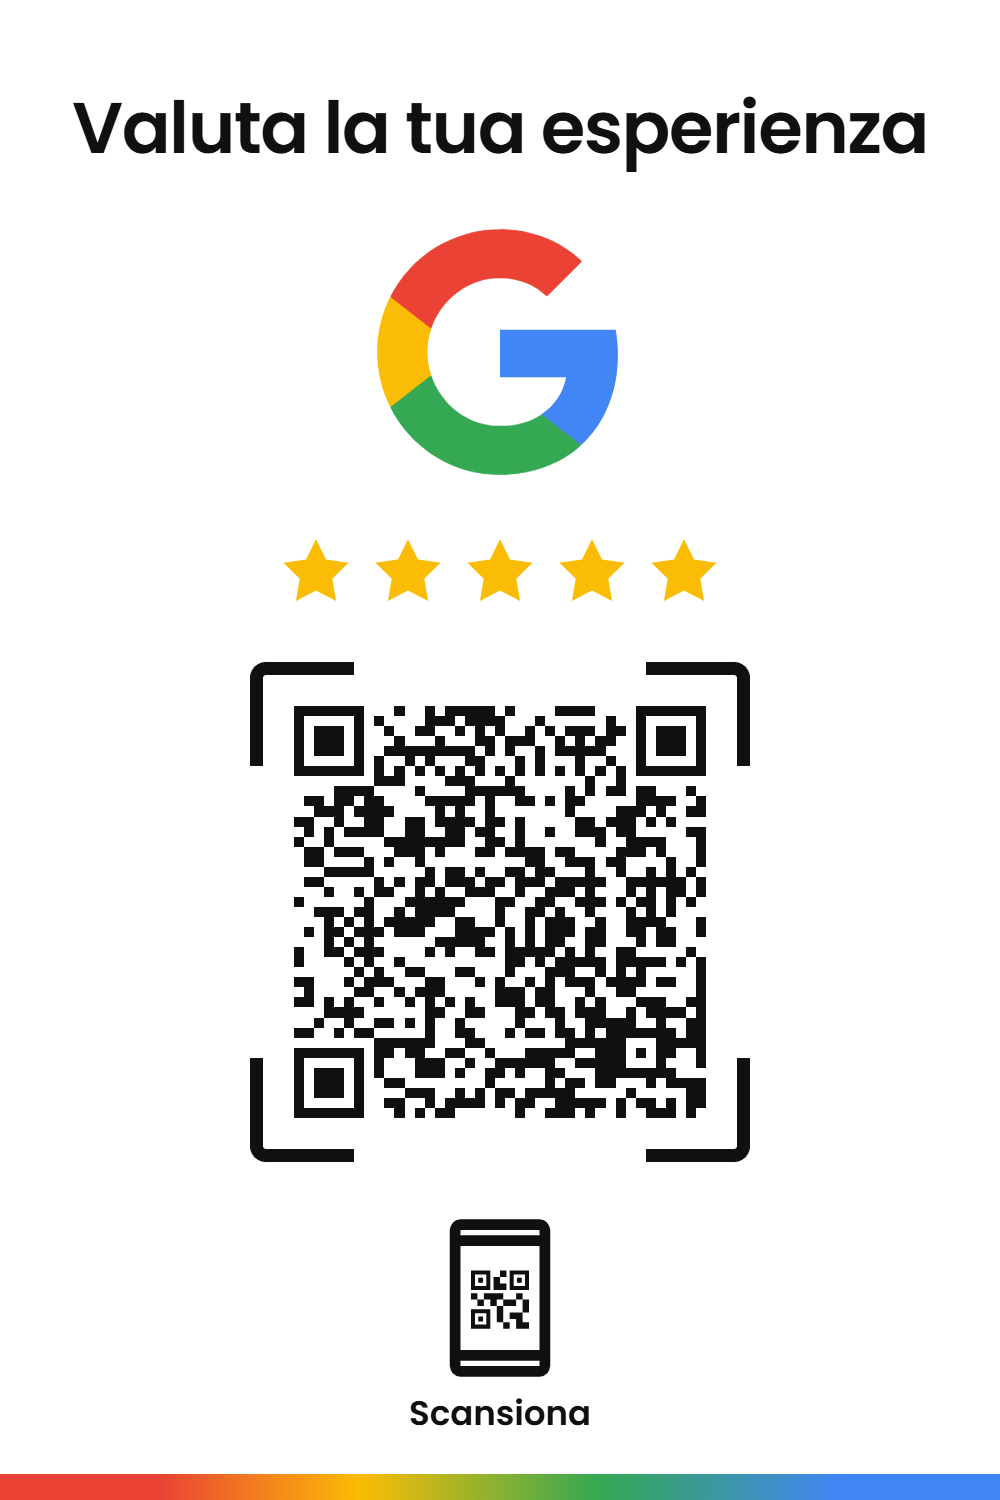
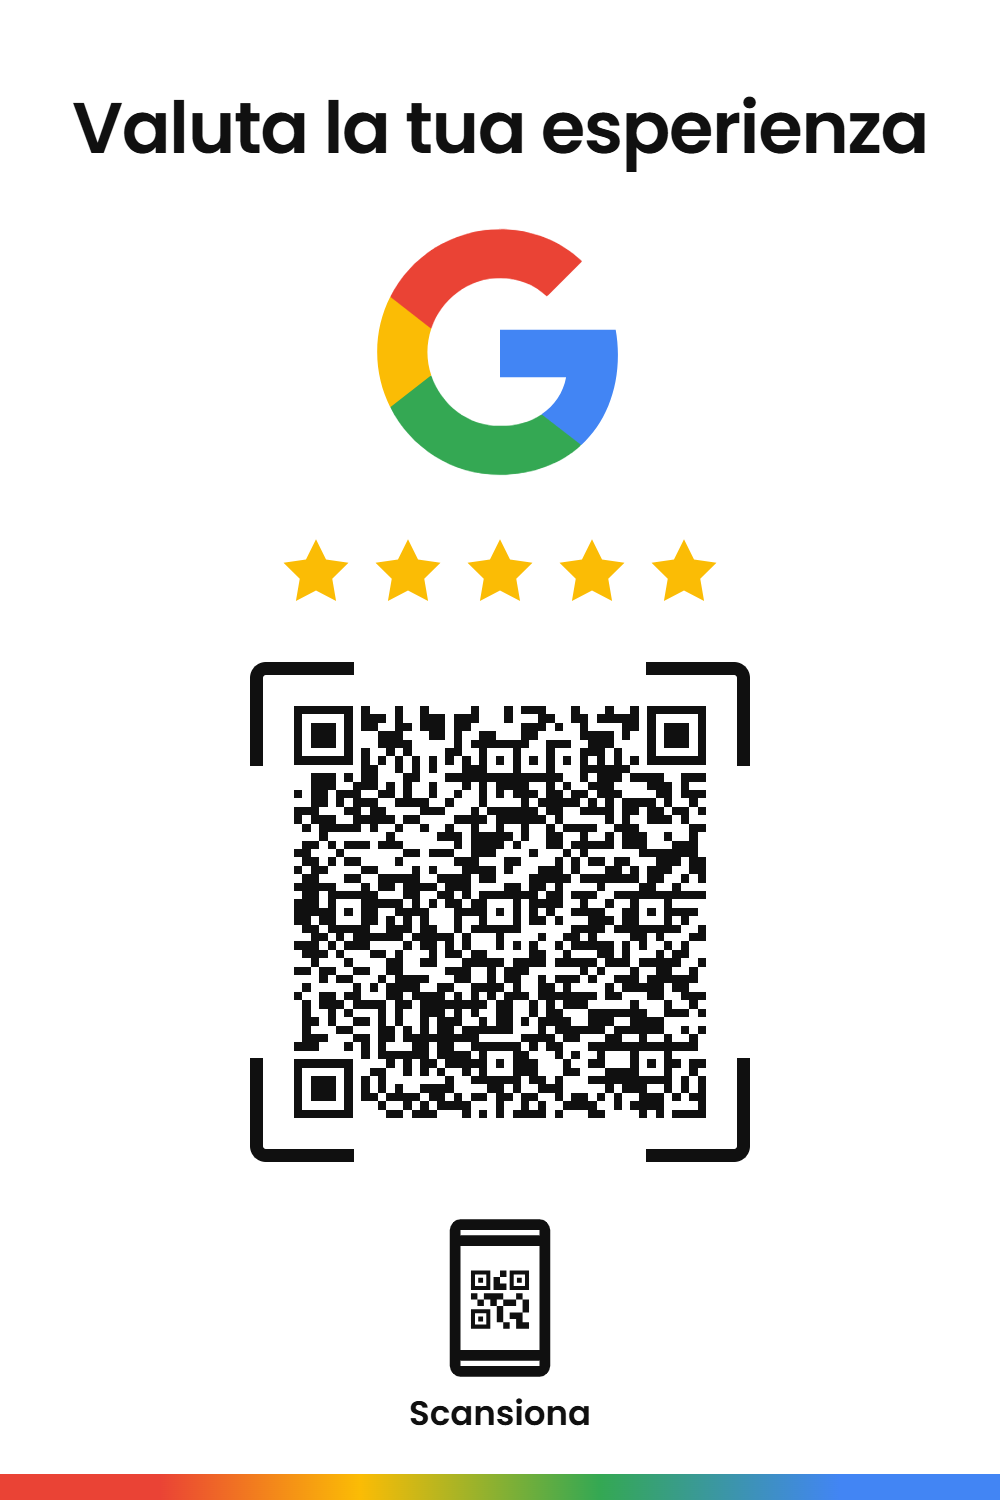
Kit: QR delle card verso /kit-recensioni-google + slot foto (pannelli, hero, personalizzazione)
Card bianca/nera rigenerate con QR che punta alla pagina del kit (verificato
con jsqr). Pannelli Basic/Standard/Premium accettano img/tier-<livello>.jpg a
tutta area con sfumatura scura in basso; hero accetta img/hero.jpg; schede
personalizzazione img/X1-X3.jpg. Senza file restano i render CSS.

Claude-Session: https://claude.ai/code/session_01H2BgPP74wNg57AgSzgWtJo

Changed region(s): [[0.279, 0.46, 0.713, 0.7667]]

diff --git a/kit-recensioni-google/index.html b/kit-recensioni-google/index.html
@@ -66,6 +66,7 @@
             </div>
             <div class="hero-visual" data-animate="fade-up" data-delay="200">
                 <div class="hero-stage">
+                    <img class="hero-photo" src="img/hero.jpg" alt="Card recensioni Google sul bancone" onload="this.parentElement.classList.add('has-photo')" onerror="this.remove()">
                     <div class="render render--stand-v render--lg">
                         <img src="img/card-bianca.png" alt="Card Valuta la tua esperienza con QR code Google" width="1000" height="1500">
                     </div>
@@ -125,6 +126,8 @@
 
         <div class="tiers" id="tiers">
             <button class="tier" data-tier="basic" type="button">
+                <img class="tier-photo" src="img/tier-basic.jpg" alt="" onload="this.parentElement.classList.add('has-photo')" onerror="this.remove()">
+                <div class="tier-shade" aria-hidden="true"></div>
                 <div class="tier-visual">
                     <div class="render render--card render--sm">
                         <img src="img/card-bianca.png" alt="" width="1000" height="1500">
@@ -140,6 +143,8 @@
             </button>
 
             <button class="tier" data-tier="standard" type="button">
+                <img class="tier-photo" src="img/tier-standard.jpg" alt="" onload="this.parentElement.classList.add('has-photo')" onerror="this.remove()">
+                <div class="tier-shade" aria-hidden="true"></div>
                 <div class="tier-visual">
                     <div class="render render--stand-v render--sm">
                         <img src="img/card-bianca.png" alt="" width="1000" height="1500">
@@ -155,6 +160,8 @@
             </button>
 
             <button class="tier" data-tier="premium" type="button">
+                <img class="tier-photo" src="img/tier-premium.jpg" alt="" onload="this.parentElement.classList.add('has-photo')" onerror="this.remove()">
+                <div class="tier-shade" aria-hidden="true"></div>
                 <div class="tier-visual">
                     <div class="render render--plexi-black render--sm">
                         <img src="img/card-nera.png" alt="" width="1000" height="1500">

diff --git a/kit-recensioni-google/kit.css b/kit-recensioni-google/kit.css
@@ -203,6 +203,26 @@ button { font-family: inherit; }
 .tier-arrow { position: absolute; bottom: 22px; left: 50%; width: 12px; height: 12px; border-right: 2px solid var(--text-tertiary); border-bottom: 2px solid var(--text-tertiary); transform: translateX(-50%) rotate(45deg); transition: var(--transition); }
 .tier.active .tier-arrow { transform: translateX(-50%) rotate(225deg); border-color: var(--accent); }
 
+/* Foto a tutta area nei pannelli (img/tier-*.jpg) */
+.tier-photo { position: absolute; inset: 0; width: 100%; height: 100%; object-fit: cover; object-position: center top; z-index: 0; transition: transform 0.8s cubic-bezier(0.4,0,0.2,1); }
+.tier-shade { position: absolute; inset: 0; z-index: 1; background: linear-gradient(180deg, rgba(10,10,11,0) 0%, rgba(10,10,11,0.2) 38%, rgba(10,10,11,0.9) 64%, rgba(10,10,11,0.98) 100%); display: none; }
+.tier.has-photo { min-height: 640px; justify-content: flex-end; padding-bottom: 72px; }
+.tier.has-photo .tier-visual { display: none; }
+.tier.has-photo .tier-shade { display: block; }
+.tier.has-photo:hover .tier-photo, .tier.has-photo.active .tier-photo { transform: scale(1.05); }
+.tier.has-photo .tier-body { z-index: 2; }
+.tier.has-photo::before { z-index: 1; }
+@media (max-width: 900px) { .tier.has-photo { min-height: 520px; } }
+
+/* Foto hero (img/hero.jpg) */
+.hero-photo { display: none; width: min(100%, 560px); border-radius: var(--radius-xl); border: 1px solid var(--border-hover); box-shadow: 0 30px 80px rgba(0,0,0,0.6); }
+.hero-stage.has-photo .hero-photo { display: block; }
+.hero-stage.has-photo .render { display: none; }
+
+/* Foto nelle schede personalizzazione (img/X1.jpg ...) */
+.extra-photo { display: none; width: calc(100% + 48px); margin: -28px -24px 6px; aspect-ratio: 16 / 10; object-fit: cover; border-radius: var(--radius-lg) var(--radius-lg) 0 0; }
+.extra.has-photo .extra-photo { display: block; }
+
 /* Pannello opzioni */
 .tier-panel { background: var(--bg-elevated); border-bottom: 1px solid var(--border); padding: 64px 0 80px; animation: panelIn 0.5s cubic-bezier(0.4,0,0.2,1); }
 @keyframes panelIn { from { opacity: 0; transform: translateY(-12px); } to { opacity: 1; transform: none; } }

diff --git a/kit-recensioni-google/kit.js b/kit-recensioni-google/kit.js
@@ -3,6 +3,8 @@
    Per sostituire un render CSS con una foto:
    metti il file in img/<codice>.jpg (es. img/S1.jpg).
    Per le foto ambientate: img/ambientata-<n>.jpg
+   Pannelli livello: img/tier-basic.jpg, tier-standard.jpg, tier-premium.jpg
+   Hero: img/hero.jpg  |  Personalizzazione: img/X1.jpg, X2.jpg, X3.jpg
    ============================================ */
 
 const CONTACT_EMAIL = 'lucacarlorecchio25@gmail.com';
@@ -154,6 +156,7 @@ supportSel.addEventListener('change', () => { state.support = supportSel.value; 
 const extrasEl = $('#extras');
 extrasEl.innerHTML = EXTRAS.map((x, i) => `
     <button class="extra ${i === 0 ? 'selected' : ''}" type="button" data-code="${x.code}">
+        <img class="extra-photo" src="img/${x.code}.jpg" alt="" onload="this.parentElement.classList.add('has-photo')" onerror="this.remove()">
         <div class="extra-head"><span class="extra-code">${x.code}</span><span class="extra-check"></span></div>
         <span class="extra-name">Personalizzazione ${x.name}</span>
         <span class="extra-price ${x.price === 0 ? 'free' : ''}">${x.price === 0 ? 'Inclusa' : '+' + euro(x.price)}</span>
